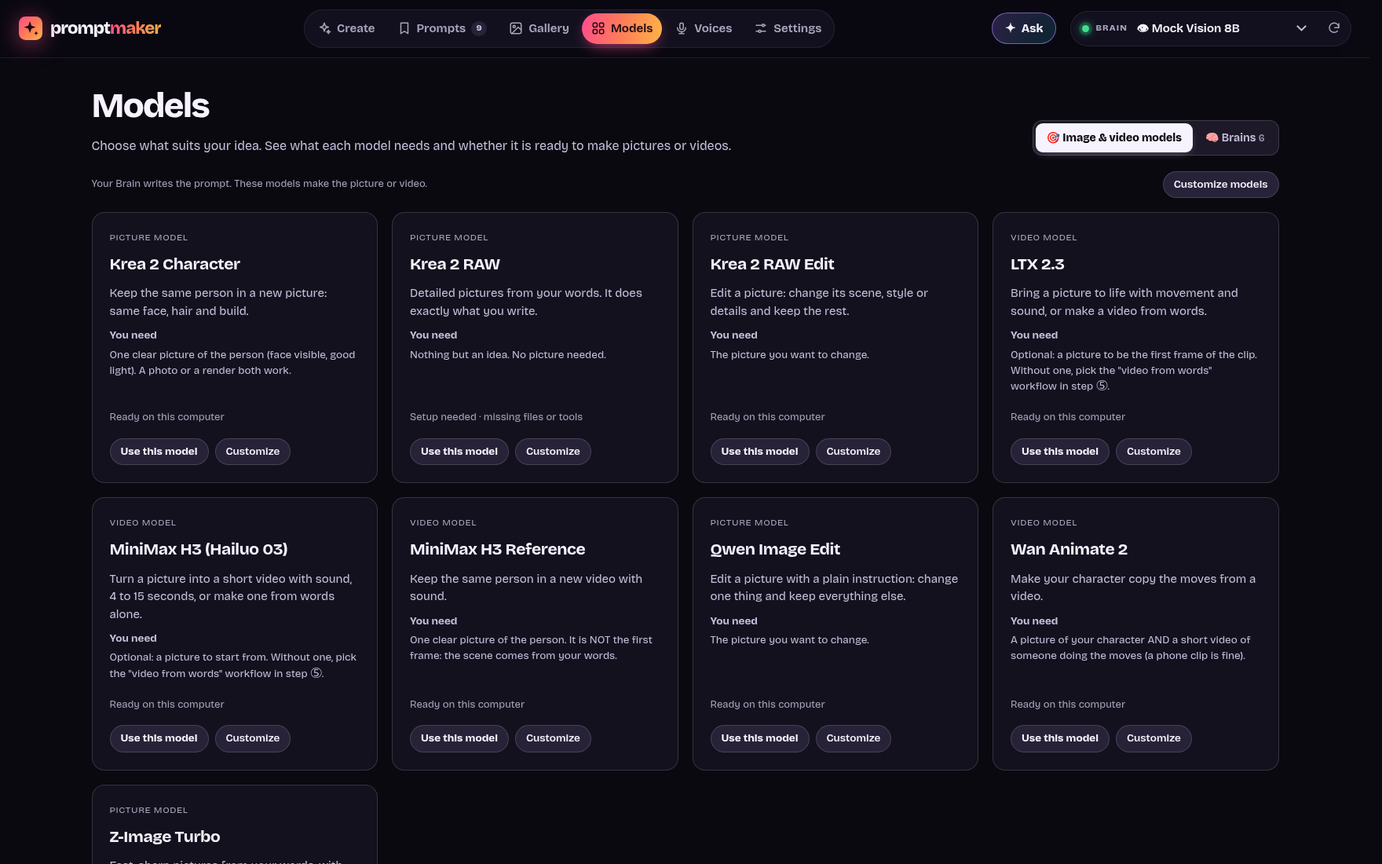
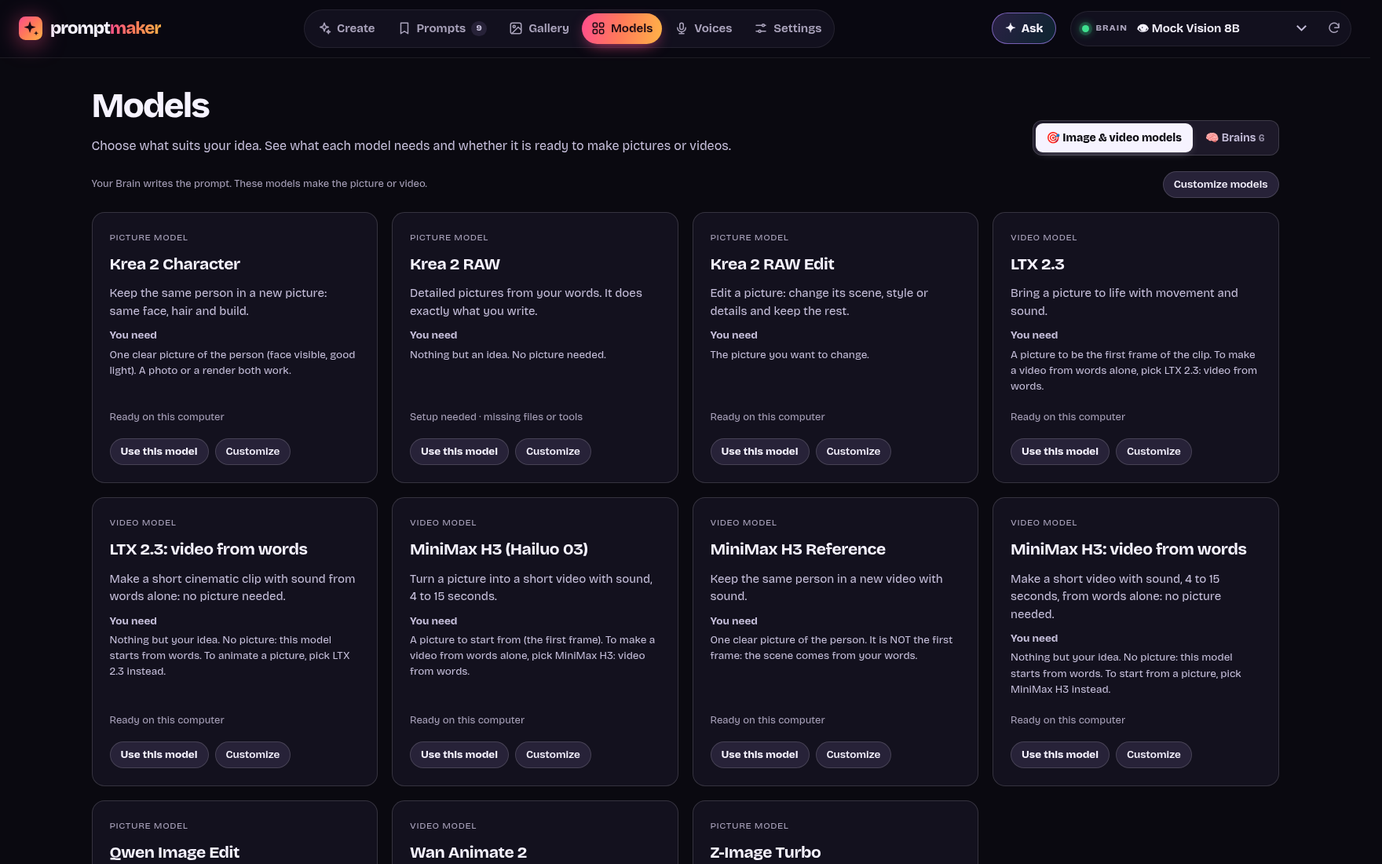
🎁 Everything that comes with the app ships attached. Every starter workflow a model has is added by itself (also one that arrives with an update), not just the first: starters.json now records the keys added per model. "Video from words" is its own model: LTX 2.3: video from words and MiniMax H3: vi

diff --git a/public/app.js b/public/app.js
@@ -1495,12 +1495,13 @@ const CREATIVE_TASKS = [
   { id: 'person', label: 'Keep the same person', prefer: 'krea-2-character' },
   { id: 'animate', label: 'Animate a picture', prefer: 'ltx-2-3' },
   { id: 'motion', label: 'Copy movement', prefer: 'wan-animate-2' },
-  { id: 'video', label: 'Make a video', prefer: '' },
+  { id: 'video', label: 'Make a video', prefer: 'ltx-2-3-t2v' },
 ];
 // The task a model is for: its playbook says (task), else its inputs place it.
 function modelTask(m) {
   if (CREATIVE_TASKS.some(t => t.id === m.task)) return m.task;
   if (m.motionVideo) return 'motion';
+  if (m.noImage) return m.kind === 'video' ? 'video' : 'picture';
   if (m.characterSheet || m.imageRoles?.includes('character')) return 'person';
   if (m.kind === 'video') return workflowsFor(m.id).some(f => f.maps?.image) ? 'animate' : 'video';
   return workflowsFor(m.id).some(f => f.maps?.image) ? 'edit' : 'picture';
@@ -1659,20 +1660,25 @@ function renderRole() {
   const role = effectiveRole();
   const offered = rolesFor(m);
   // How the Brain uses the image: with your own prompt it goes into the workflow as it is, so there's nothing to pick.
-  $('#roleBlock').hidden = !hasImage || offered.length < 2 || state.manual; // one way to use it: nothing to pick
-  $('#roleHint').hidden = !hasImage || state.manual;
+  $('#roleBlock').hidden = !hasImage || offered.length < 2 || state.manual || Boolean(m?.noImage); // one way to use it: nothing to pick
+  $('#roleHint').hidden = !hasImage || state.manual || Boolean(m?.noImage);
   for (const b of $$('#roleBlock .role')) b.hidden = !offered.includes(b.dataset.value);
   setActive($('#roleBlock'), role);
   // Character animation: step 3 takes the character and the motion video (also for a chain step that animates one).
   const motion = Boolean(m?.motionVideo);
   $('#motionBlock').hidden = !motion && !chainNeedsVideo();
   $('#charLabel').hidden = !motion;
-  $('#dzSub').textContent = motion ? 'JPG · PNG · WebP. This picture is the character who performs the moves.' : m?.characterSheet && !state.manual ? 'JPG · PNG · WebP. The person in it stays the same in every render.' : state.manual ? 'JPG · PNG · WebP. It goes into your workflow as it is.' : 'JPG · PNG · WebP. Use it as a reference, recreate it, or animate it.';
-  $('#imageStepTitle').textContent = motion ? 'Character & motion' : 'Add an image';
-  $('#imageStepOpt').textContent = motion ? 'both needed to render' : activeFlow()?.maps?.image ? 'needed to render with this workflow' : 'optional';
+  const noImage = Boolean(m?.noImage);
+  $('#dropzone').classList.toggle('is-off', noImage);
+  $('#dropzone').setAttribute('aria-disabled', String(noImage));
+  $('#dropzone').tabIndex = noImage ? -1 : 0;
+  $('#dzGallery').disabled = noImage;
+  $('#dzSub').textContent = noImage ? `${m.name} works from your words alone: it takes no picture. To start from a picture, pick another model in step ①.` : motion ? 'JPG · PNG · WebP. This picture is the character who performs the moves.' : m?.characterSheet && !state.manual ? 'JPG · PNG · WebP. The person in it stays the same in every render.' : state.manual ? 'JPG · PNG · WebP. It goes into your workflow as it is.' : 'JPG · PNG · WebP. Use it as a reference, recreate it, or animate it.';
+  $('#imageStepTitle').textContent = motion ? 'Character & motion' : noImage ? 'No image' : 'Add an image';
+  $('#imageStepOpt').textContent = noImage ? (hasImage ? 'this model works from words: your picture is set aside' : 'this model works from words') : motion ? 'both needed to render' : activeFlow()?.maps?.image ? 'needed to render with this workflow' : 'optional';
   const hasTheme = Boolean($('#theme').value.trim());
   $('#roleHint').textContent = m?.characterSheet ? SHEET_HINT[hasTheme ? 0 : 1] : ROLE_HINTS[role][hasTheme ? 0 : 1];
-  $('#sheetBlock').hidden = !m?.characterSheet || !hasImage || state.manual;
+  $('#sheetBlock').hidden = !m?.characterSheet || !hasImage || state.manual || Boolean(m?.noImage);
   try { renderLine(); } catch (err) { console.error('line block:', err); } // never in the way of the rest of step 3
   $('#turnaroundBtn').hidden = m?.kind !== 'image';
   $('#themeOpt').textContent = state.manual ? 'sent word for word' : hasImage || (motion && state.video) ? 'optional' : '';
@@ -1968,6 +1974,7 @@ async function imageFromRender(file) {
 
 async function loadImageFile(file, { source = null, quiet = false } = {}) {
   if (!file || !file.type.startsWith('image/')) return toast('🤔 That file isn\'t an image.', true);
+  if (currentModel()?.noImage) return toast(`${currentModel().name} works from your words alone and takes no picture. Pick another model in step ① to use one.`, true);
   let dataUrl;
   let ratio;
   try {
@@ -2036,9 +2043,10 @@ function renderSourceBadge() {
 }
 
 const dz = $('#dropzone');
-dz.addEventListener('click', e => { if (!state.image && !e.target.closest('button')) $('#imageInput').click(); });
+const imageOff = () => Boolean(currentModel()?.noImage); // the model works from words alone: step ③ takes nothing
+dz.addEventListener('click', e => { if (!state.image && !imageOff() && !e.target.closest('button')) $('#imageInput').click(); });
 dz.addEventListener('keydown', e => {
-  if ((e.key === 'Enter' || e.key === ' ') && e.target === dz && !state.image) { e.preventDefault(); $('#imageInput').click(); }
+  if ((e.key === 'Enter' || e.key === ' ') && e.target === dz && !state.image && !imageOff()) { e.preventDefault(); $('#imageInput').click(); }
 });
 $('#imageInput').addEventListener('change', e => { loadImageFile(e.target.files[0]); e.target.value = ''; });
 $('#imageReplace').addEventListener('click', () => $('#imageInput').click());
@@ -4151,7 +4159,7 @@ async function formRequest() {
   if (state.llmOk === false) await loadLlms();
   if (state.llmOk === false) return showError(`Can't reach LM Studio at ${state.settings.lmStudioUrl}. Its local server is off (quitting the LM Studio app turns it off too).`);
   const llm = selectedLlm();
-  if (state.image && llm?.vision === false) return showError(`${llm.name} is text-only and can't see images. Pick a vision model (👁) in the top bar.`);
+  if (state.image && !m.noImage && llm?.vision === false) return showError(`${llm.name} is text-only and can't see images. Pick a vision model (👁) in the top bar.`);
   await flushEdits();
   return formBody(m, theme, motion);
 }
@@ -4166,15 +4174,15 @@ function formBody(m, theme, motion) {
     duration: m.kind === 'video' ? durationValue() : '',
     length: state.length,
     ...(state.look ? { look: state.look } : {}),
-    ...(m.characterSheet && state.image && state.sheet.trim() ? { characterSheet: state.sheet } : {}),
+    ...(m.characterSheet && state.image && !m.noImage && state.sheet.trim() ? { characterSheet: state.sheet } : {}),
     temperature: Number($('#temperature').value),
     variations: state.variations,
-    ...(state.image?.file ? { imageFile: state.image.file } : state.image?.dataUrl ? { image: state.image.dataUrl } : {}),
-    ...(state.image?.source ? { source: state.image.source } : {}),
+    ...(m.noImage ? {} : state.image?.file ? { imageFile: state.image.file } : state.image?.dataUrl ? { image: state.image.dataUrl } : {}), // (a words-only model gets no picture)
+    ...(state.image?.source && !m.noImage ? { source: state.image.source } : {}),
     ...(motion ? { video: motion } : {}),
     ...(m.kind === 'video' && state.line.voice && state.line.text.trim() && activeFlow()?.maps?.audio ? { line: { voice: state.line.voice, text: state.line.text.trim() } } : {}), // 🎙 what they say
   };
-  if (state.image?.source && m.kind === 'video' && !m.motionVideo) saved.set('animateModel', m.id);
+  if (state.image?.source && m.kind === 'video' && !m.motionVideo && !m.noImage) saved.set('animateModel', m.id);
   return body;
 }
 
@@ -7614,7 +7622,7 @@ async function followRender(card, entry, { count, flowName, quiet = false, runId
 
 // The video model a still gets animated with: the one used last time, else the first video model.
 function animateTarget() {
-  const videos = state.models.filter(m => m.kind === 'video' && !m.motionVideo); // character animation has no first frame
+  const videos = state.models.filter(m => m.kind === 'video' && !m.motionVideo && !m.noImage); // character animation has no first frame; words-only models take none
   return videos.find(m => m.id === saved.get('animateModel', null)) || videos[0] || null;
 }
 
@@ -9601,7 +9609,7 @@ async function useRenderAs(it, use, model) {
   if (it.file.kind !== 'image') throw new Error('Only a still can go in step 3: that one is a video.');
   const m = model ? needModel(model) : null;
   if (use === 'animate') {
-    if (m && (m.kind !== 'video' || m.motionVideo)) throw new Error(`${m.name} can't animate a still: pick a video model.`);
+    if (m && (m.kind !== 'video' || m.motionVideo || m.noImage)) throw new Error(`${m.name} can't animate a still: pick a video model that starts from a picture.`);
     if (m) saved.set('animateModel', m.id);
     await continueFrom(it, { animate: true });
   } else if (use === 'character' && (m ? m.motionVideo : currentModel()?.motionVideo || !rolesFor(currentModel()).includes('character'))) {

diff --git a/server.js b/server.js
@@ -812,10 +812,12 @@ async function starterWorkflows(modelId) {
   return out;
 }
 
-// Every model with a starter workflow gets it by itself while it has no workflow, so a new person can render
-// right away. Added once: delete it and it stays gone (＋ Add workflow brings it back); add your own and yours is used.
+// Every starter workflow a model ships with is added by itself (one by one, so a starter that comes with an update
+// arrives too), so a new person can render right away. Each is added once: delete it and it stays gone (＋ Add workflow
+// brings it back). starters.json remembers the keys added per model (an older file holds one key as a string).
 const STARTERS_ADDED = path.join(store.DATA_DIR, 'starters.json');
 const startersAdded = () => fs.readFile(STARTERS_ADDED, 'utf8').then(JSON.parse).catch(() => ({}));
+const addedKeys = v => (Array.isArray(v) ? v : v ? [v] : []);
 let addingStarters = null;
 function addStarters() {
   addingStarters ??= (async () => {
@@ -823,16 +825,21 @@ function addStarters() {
     const flows = await wf.listWorkflows();
     let changed = false;
     for (const modelId of await fs.readdir(STARTERS_DIR).catch(() => [])) {
-      if (added[modelId] || flows.some(f => f.modelId === modelId) || !(await store.getModel(modelId))) continue;
-      const [starter] = await starterWorkflows(modelId);
-      if (!starter) continue;
-      try {
-        const p = await prepareWorkflow({ starter: starter.key });
-        await wf.saveWorkflow({ modelId, name: p.name, source: p.source, prompt: p.prompt, mapping: p.mapping, options: p.options, models: p.models });
-        added[modelId] = starter.key;
+      if (!(await store.getModel(modelId))) continue;
+      const have = addedKeys(added[modelId]);
+      // Before 1.40.0 only the first starter was added and recorded as "test"/its key: those models' other starters come now.
+      for (const starter of await starterWorkflows(modelId)) {
+        if (have.includes(starter.key) || flows.some(f => f.modelId === modelId && f.source === `starter:${starter.key}`)) continue;
+        try {
+          const p = await prepareWorkflow({ starter: starter.key });
+          await wf.saveWorkflow({ modelId, name: p.name, source: p.source, prompt: p.prompt, mapping: p.mapping, options: p.options, models: p.models });
+        } catch (err) {
+          console.warn(`Couldn't add the starter workflow ${starter.key}: ${err.message}`);
+          continue;
+        }
+        have.push(starter.key);
+        added[modelId] = have;
         changed = true;
-      } catch (err) {
-        console.warn(`Couldn't add the starter workflow for ${modelId}: ${err.message}`);
       }
     }
     if (changed) await fs.writeFile(STARTERS_ADDED, JSON.stringify(added, null, 2) + '\n');

diff --git a/public/app.css b/public/app.css
@@ -359,6 +359,8 @@ body.narrow .create .scroll-floor { display: none; }
   background: rgb(0 0 0 / 18%); cursor: pointer; transition: border-color 0.15s, background 0.15s;
   overflow: hidden;
 }
+.dropzone.is-off { opacity: .55; cursor: default; border-style: dotted; }
+.dropzone.is-off:hover, .dropzone.is-off .dz-ico { border-color: var(--border, currentColor); background: none; transform: none; }
 .dropzone:hover, .dropzone.drag { border-color: var(--m); background: color-mix(in srgb, var(--m) 10%, transparent); }
 .dz-empty { display: flex; flex-direction: column; align-items: center; gap: 4px; padding: 22px 16px; text-align: center; }
 .dz-ico { font-size: 28px; line-height: 1; margin-bottom: 4px; transition: transform 0.2s; }

diff --git a/lib/store.js b/lib/store.js
@@ -394,6 +394,8 @@ export function normalizeModel(input) {
     },
     // The ways an attached image can be used; unset means every role that fits the kind.
     ...(imageRoles.length ? { imageRoles } : {}),
+    // Works from words alone (a text-to-video or text-to-image model): step ③ takes no picture.
+    ...(input.noImage === true && !imageRoles.length ? { noImage: true } : {}),
     // Character animation (e.g. Wan Animate 2): Create takes a motion video, whose moves the character performs.
     ...(kind === 'video' && input.motionVideo === true ? { motionVideo: true } : {}),
     // The image is a person to keep (Krea 2 Character, MiniMax H3 Reference): the Brain writes their character sheet

diff --git a/docs/guide.md b/docs/guide.md
@@ -178,9 +178,9 @@ On **Windows**, double-click **`start.bat`** in the app folder. It starts LM Stu
 
 | Step | What it does |
 |---|---|
-| **① What do you want to make?** | Choose a creative task. Its recommended model appears below; **Change model** opens the full choice and remembers your preference. **How to use this model** starts folded and offers the practical guide and example ideas when you want them. |
+| **① What do you want to make?** | Choose a creative task. Its recommended model appears below; **Change model** opens the full choice and remembers your preference. **Animate a picture** and **Make a video** are different models: the first starts from your picture (LTX 2.3, MiniMax H3), the second from your words alone (**LTX 2.3: video from words**, **MiniMax H3: video from words**). **How to use this model** starts folded and offers the practical guide and example ideas when you want them. |
 | **② Describe the shot** | Your theme: short or long, casual is fine. Optional if you add an image. Under it, the **🎥 Look** sets how the camera and light feel: one of eleven, **No look**, or **your own** (see below). Have the exact prompt already? **✍ Use my own prompt, word for word** (below) sends it as it is, with no Brain (the Look steps aside). |
-| **③ Add an image** | Drop, paste (`Ctrl+V`) or browse. Click the image to see it full screen (click again for actual size). Picking from your Gallery? Drag the 🔍 slider for bigger thumbnails, or hit a tile's 🔍 to look closer. Then choose how to use it (below). On a character-animation model (Wan Animate 2) this step is **Character & motion**: the image is your character, and a **🕺 motion video** goes under it (see [Character animation](#character-animation-wan-animate-2)). |
+| **③ Add an image** | Drop, paste (`Ctrl+V`) or browse. On a model that works from words alone (the **video from words** ones) this step is greyed out and says **No image**: nothing can be dropped, and a picture you already added is set aside, not sent, until you pick a model that takes one. Otherwise:  Click the image to see it full screen (click again for actual size). Picking from your Gallery? Drag the 🔍 slider for bigger thumbnails, or hit a tile's 🔍 to look closer. Then choose how to use it (below). On a character-animation model (Wan Animate 2) this step is **Character & motion**: the image is your character, and a **🕺 motion video** goes under it (see [Character animation](#character-animation-wan-animate-2)). |
 | **④ Shape, size & variations** | Choose Portrait, Square, Landscape or Wide (with the exact ratio), the size, video duration and the number of alternatives. **Size** lists sizes in the picked shape, from Small (about half a megapixel) through Standard, Large and Extra large to Huge (about four), with HD, Full HD, 2K and 4K by name; it starts on the model's usual size and follows the shape. **✎ Type your own size…** at the bottom takes any width × height. **More options** holds prompt length and adventurousness. |
 | **⑤ Render it** | Optional, with ComfyUI. Pick the workflow that renders your takes, edit it or add one (see [Rendering](#rendering-with-comfyui-optional)). |
 | **⑥ Then…** | Optional. Chain more steps, like still → video (see [Chains](#4-chains-build-your-own-pipelines)). |
@@ -413,7 +413,7 @@ Prompt Maker is great on its own. If you run [ComfyUI](https://github.com/comfya
 
 ### 1. Attach a workflow to a model
 
-**Every built-in model already has one.** The first time you open Prompt Maker, each of the nine models gets the workflow that comes with it (listed below), so you can **▶ Render** right away; step ⑤ offers **⬇ Download** for any model file ComfyUI doesn't have yet. It's added once: delete it and it stays gone (**＋ Add workflow → 🎁 Comes with Prompt Maker** brings it back). A model that already has a workflow of yours doesn't get one.
+**Every built-in model already has one.** The first time you open Prompt Maker, each of the eleven models gets every workflow that comes with it (listed below), so you can **▶ Render** right away; step ⑤ offers **⬇ Download** for any model file ComfyUI doesn't have yet. A workflow that arrives with an update is added the same way, next to the ones you have. Each is added once: delete it and it stays gone (**＋ Add workflow → 🎁 Comes with Prompt Maker** brings it back).
 
 **To use your own instead**, add it as below: a workflow you add is the one the model uses from then on, and the picker in step ⑤ (or on the take) switches between them.
 
@@ -424,8 +424,10 @@ Prompt Maker is great on its own. If you run [ComfyUI](https://github.com/comfya
 | **Z-Image Turbo** | Text to image: ComfyUI's Z-Image Turbo template, 8 steps, no guidance. |
 | **Qwen Image Edit** | ComfyUI's Qwen Image Edit 2509 template with its Lightning LoRA, 4 steps; the result keeps your picture's size. |
 | **Krea 2 Character** | Krea 2 Turbo with the Krea 2 Identity Edit LoRA, 10 steps ([more](#same-person-every-render)). Needs the comfyui-krea2edit nodes. |
-| **LTX 2.3** | ComfyUI's LTX 2.3 image-to-video template: two passes with the distilled LoRA and a 2× upscale, with sound. Its own prompt writer is taken out, so your prompt is used as written. A second one, **LTX 2.3: video from words**, makes the clip from the prompt alone (**＋ Add workflow → 🎁**). |
-| **MiniMax H3** | ComfyUI's MiniMax H3 image-to-video template, 20 steps, with sound (its optional turbo LoRA left out), plus a Load Audio → Add Guide pair for a [🎙 spoken line](#voices); without a line those two nodes are left out. A second one, **MiniMax H3: video from words**, needs no picture (**＋ Add workflow → 🎁**). |
+| **LTX 2.3** | ComfyUI's LTX 2.3 image-to-video template: two passes with the distilled LoRA and a 2× upscale, with sound. Its own prompt writer is taken out, so your prompt is used as written. |
+| **LTX 2.3: video from words** | The same, from ComfyUI's text-to-video template: the clip comes from your prompt alone, no picture. |
+| **MiniMax H3** | ComfyUI's MiniMax H3 image-to-video template, 20 steps, with sound (its optional turbo LoRA left out), plus a Load Audio → Add Guide pair for a [🎙 spoken line](#voices); without a line those two nodes are left out. |
+| **MiniMax H3: video from words** | ComfyUI's MiniMax H3 text-to-video template, 20 steps, with sound and the same 🎙 pair: no picture needed. |
 | **MiniMax H3 Reference** | ComfyUI's MiniMax H3 reference-to-video template, 20 steps, with sound. |
 | **Wan Animate 2** | ComfyUI's Wan Animate 2 Distilled template: your person, moving like the motion video, 10 steps. |
 
@@ -627,7 +629,7 @@ Every render also appears in the **Gallery** tab. It *is* 🎞 Your renders, giv
 
 ## Target models
 
-Nine models come with ready-made playbooks, researched from their official prompting guides (September and October 2026). More are on the way, and you can [add your own](#adding-or-updating-a-model) any time:
+Eleven models come with ready-made playbooks, researched from their official prompting guides (September and October 2026). More are on the way, and you can [add your own](#adding-or-updating-a-model) any time:
 
 | Model | Type | Prompt style |
 |---|---|---|
@@ -636,8 +638,10 @@ Nine models come with ready-made playbooks, researched from their official promp
 | **Krea 2 Character** | Image (same person) | Krea 2 with the Identity Edit LoRA: an instruction (*"Create a photo of this woman…"*), every trait of the [character sheet](#same-person-every-render), the new clothes, pose, camera and light, then "Preserve the exact facial identity and body". Its workflow comes with the app. |
 | **Z-Image Turbo** | Image | Tongyi-MAI's fast 6B model, 8 steps: one caption paragraph with the medium first, skin texture for realism, and the exact words of any sign or label in quotes, which it renders correctly in English and Chinese. |
 | **Qwen Image Edit** | Image (editing) | Qwen-Image-Edit-2509: one short instruction, not a caption: the change, then what must stay ("keep her face and the background"). The person, the product and the layout stay as they are; edited text keeps its font. Its workflow (4 steps with the Lightning LoRA) comes with the app. |
-| **LTX 2.3** | Video + audio | One chronological paragraph: shot, subject, action beats, explicit camera, and ambience, sound effects and dialogue woven in. |
-| **MiniMax H3 (Hailuo 03)** | Video + audio | MiniMax's structured shooting-script format (`integrated_multimodal_description` / `overall_soundscape` / `non_diegetic_music`) with `[Shot N]` cuts and `(S1)` dialogue tags. |
+| **LTX 2.3** | Video + audio (from a picture) | One chronological paragraph: shot, subject, action beats, explicit camera, and ambience, sound effects and dialogue woven in. |
+| **LTX 2.3: video from words** | Video + audio (from words) | The same prompt style, for a clip that starts from your words alone: step ③ takes no picture. Under **Make a video** in step ①. |
+| **MiniMax H3 (Hailuo 03)** | Video + audio (from a picture) | MiniMax's structured shooting-script format (`integrated_multimodal_description` / `overall_soundscape` / `non_diegetic_music`) with `[Shot N]` cuts and `(S1)` dialogue tags. |
+| **MiniMax H3: video from words** | Video + audio (from words) | The same shooting-script format, for a clip from your words alone: step ③ takes no picture. Under **Make a video** in step ①. |
 | **MiniMax H3 Reference** | Video + audio (same person) | MiniMax's full-reference format (`subject_definitions` / `summary` / `retention_analysis` / `detailed_description` / `overall_soundscape` / `non_diegetic_music`): your picture is `<Subject 1>`, defined once with every trait of the [character sheet](#same-person-every-render). Its workflow comes with the app. |
 | **Wan Animate 2** | Video (character animation) | Wan-AI's official caption format: `Character appearance description:` (looks only) and `Background description:` (place, light, camera angle), plus a `Motion:` line for the pose prompt. Takes a character image and a motion video ([more](#character-animation-wan-animate-2)). |
 

diff --git a/README.md b/README.md
@@ -3,7 +3,7 @@
 # ✦ Prompt Maker
 
 **Say what you want to see, in plain words, and get pictures and videos made on your own computer.**
-Start from an idea, a photo, or both. It writes for each model the way that model likes, keeps the same person from shot to shot and gives them a voice. Keep the ones you love, compare them side by side, find them again later. Nine models are ready to go, more are on the way, and you can add your own. Nothing leaves your machine, and it's free.
+Start from an idea, a photo, or both. It writes for each model the way that model likes, keeps the same person from shot to shot and gives them a voice. Keep the ones you love, compare them side by side, find them again later. Eleven models are ready to go, more are on the way, and you can add your own. Nothing leaves your machine, and it's free.
 
 ![Node 20.11+](https://img.shields.io/badge/node-%E2%89%A520.11-339933?logo=node.js&logoColor=white)
 ![Zero dependencies](https://img.shields.io/badge/dependencies-0-brightgreen)
@@ -116,7 +116,7 @@ Everything runs on your own computer and talks only to your own LM Studio and Co
 
 You need a computer with a good graphics card. Linux is where it's tested every day. On Windows the launcher is written but has **not yet been tried on a real Windows PC**; if something doesn't work there, please tell us.
 
-Nine models are ready: **Krea 2 RAW** (text to image, image to image, and a Character version that keeps the same person), **Z-Image Turbo**, **Qwen Image Edit**, **LTX 2.3** and **MiniMax H3** (each from a picture or from words alone, and MiniMax with a Reference version for your person) and **Wan Animate 2**. [Add your own](docs/guide.md#adding-or-updating-a-model).
+Eleven models are ready: **Krea 2 RAW** (text to image, image to image, and a Character version that keeps the same person), **Z-Image Turbo**, **Qwen Image Edit**, **LTX 2.3** and **MiniMax H3** (each one model that animates your picture and one that makes the video from words alone, and MiniMax with a Reference version for your person) and **Wan Animate 2**. [Add your own](docs/guide.md#adding-or-updating-a-model).
 
 ## More
 

diff --git a/TODO.md b/TODO.md
@@ -23,6 +23,12 @@ and what "done" looks like; done items move to the bottom with the version that 
 
 ## Done
 
+- 1.40.0 — Everything that comes with the app ships attached, nothing is opt-in. Every starter workflow a model has is
+  added by itself (also one that arrives with an update), not just the first. "Video from words" is its own model:
+  **LTX 2.3: video from words** and **MiniMax H3: video from words** sit under **Make a video** in step ①, while
+  **LTX 2.3** and **MiniMax H3** animate a picture, so the two are two choices, each with its own starter attached. A
+  model that works from words alone greys out step ③ (**No image**): nothing can be dropped there, and a picture
+  already there is set aside, not sent. ("MiniMax H2" was asked for again; still no such model exists, so it's H3.)
 - 1.39.0 — Two new models with playbooks and starter workflows, each rendered for real before shipping: **Z-Image Turbo**
   (text to image, 8 steps, text in the picture renders right) and **Qwen Image Edit** (one instruction edits your picture,
   4 steps with the Lightning LoRA). **LTX 2.3** and **MiniMax H3** get a second starter, "video from words", that
